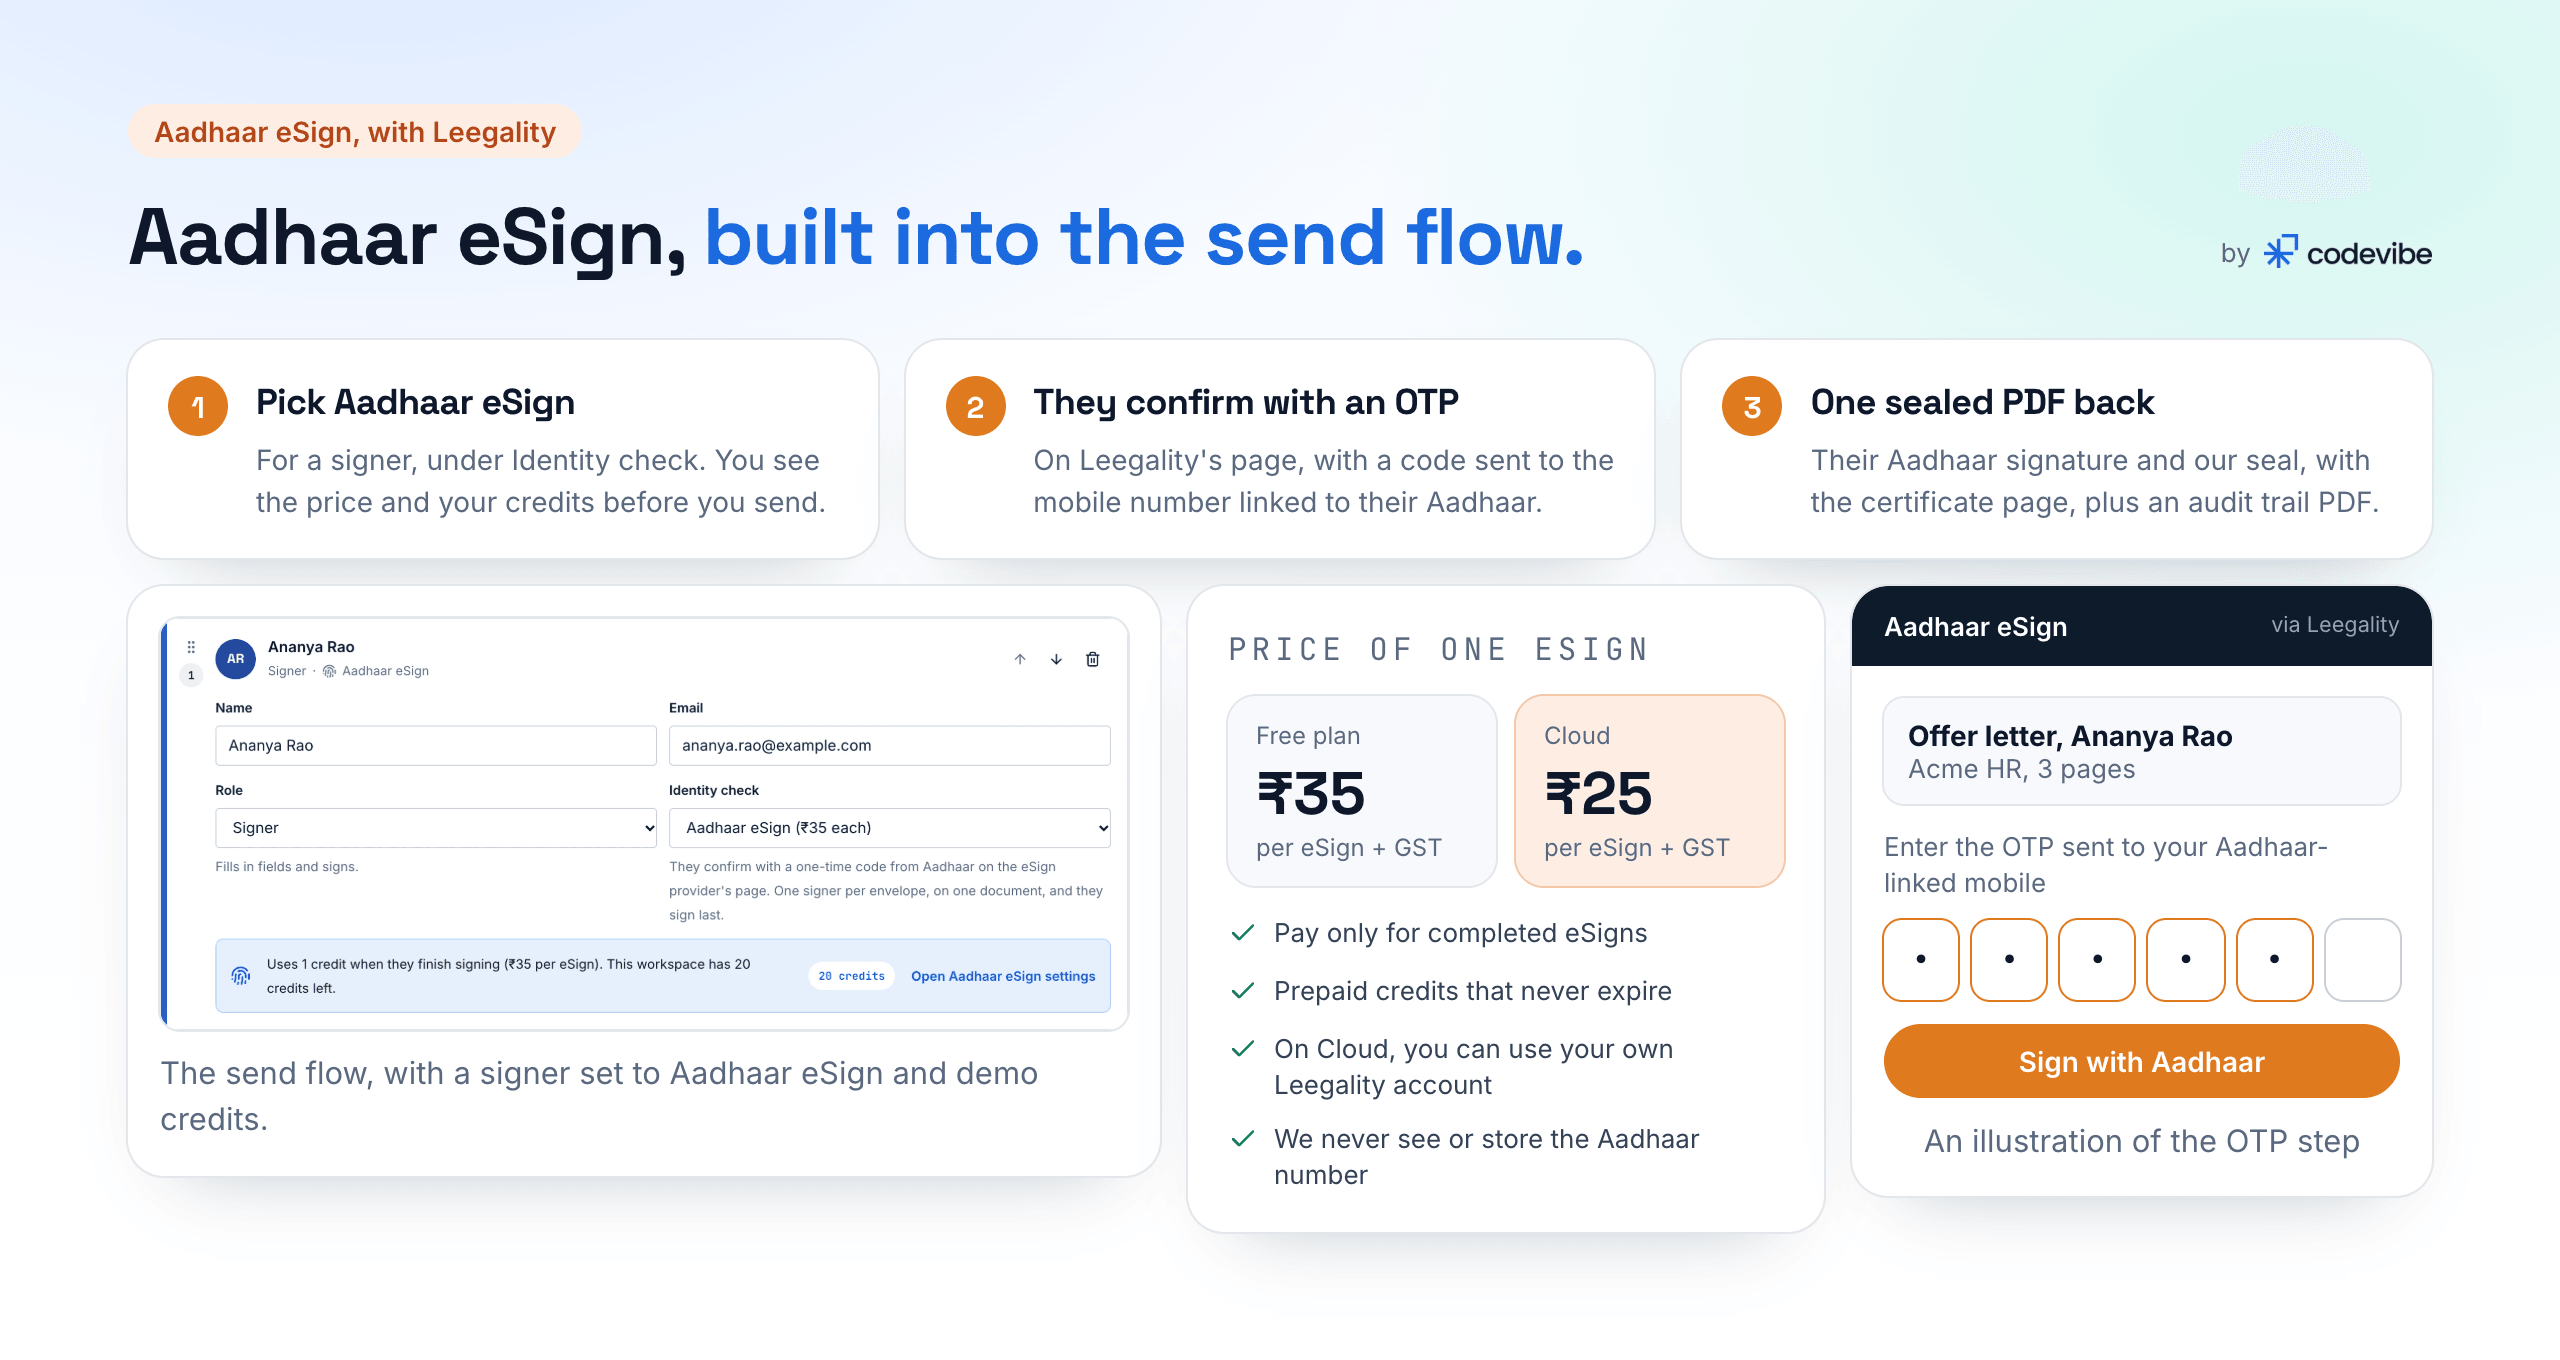
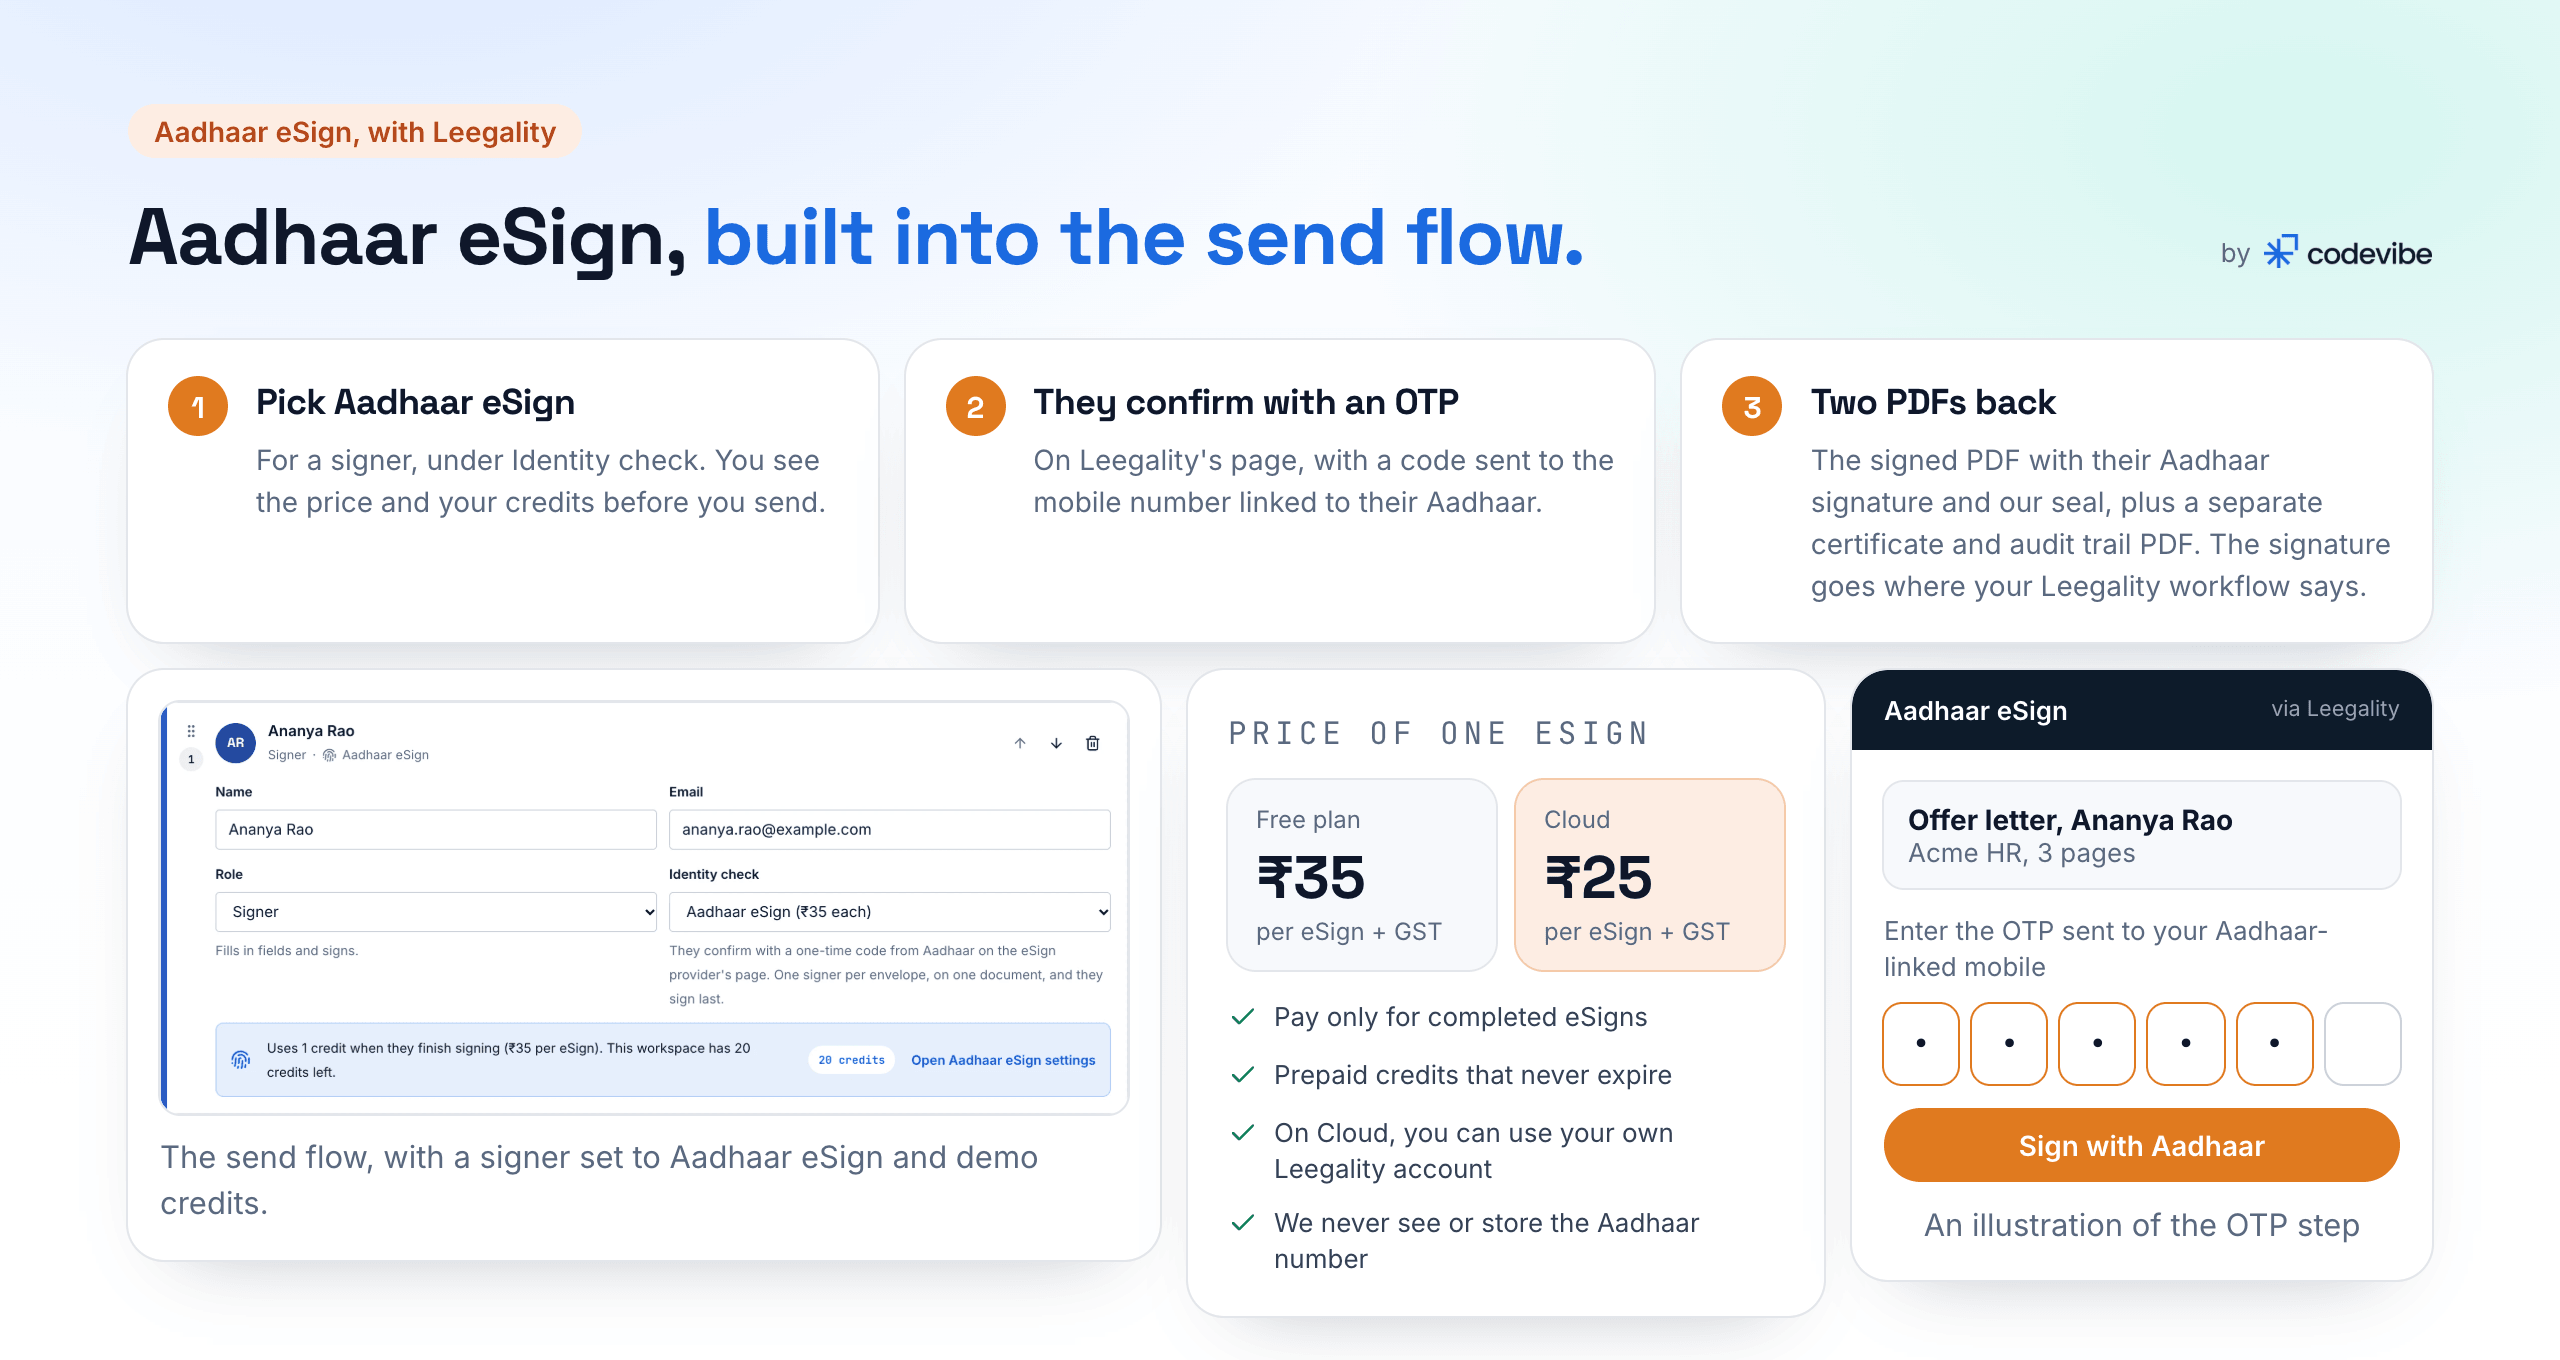
docs: show the two files of an Aadhaar eSign in the readme image

diff --git a/.github/assets/src/aadhaar.html b/.github/assets/src/aadhaar.html
@@ -225,10 +225,10 @@
         <div class="card step">
           <span class="n">3</span>
           <div>
-            <h3>One sealed PDF back</h3>
+            <h3>Two PDFs back</h3>
             <p>
-              Their Aadhaar signature and our seal, with the certificate page, plus an audit trail
-              PDF.
+              The signed PDF with their Aadhaar signature and our seal, plus a separate certificate
+              and audit trail PDF. The signature goes where your Leegality workflow says.
             </p>
           </div>
         </div>

diff --git a/README.md b/README.md
@@ -93,7 +93,7 @@ npm i codevibe-sign
 - 🗂 **Templates and bulk send** from a CSV, in the web app and through `/v1/templates` in the API.
 - 🏢 **Workspaces** with their own address (old links redirect), time zone for signed documents, brand, team and sign-in by password or email link.
 - 🔔 **Signed outbound webhooks** with retries, and an **HTTP API** with an OpenAPI description and a Postman collection.
-- 🇮🇳 **Aadhaar eSign** through a licensed provider (Leegality), built into the server and the web app: the signer confirms with an Aadhaar OTP, and the finished file carries their Aadhaar signature and the seal together. The adapter is also a library of its own (`@codevibe_technology/sign-aadhaar`).
+- 🇮🇳 **Aadhaar eSign** through a licensed provider (Leegality), built into the server and the web app: the signer confirms with an Aadhaar OTP, and the signed file carries their Aadhaar signature and the seal, with the certificate and audit trail as a separate PDF. The adapter is also a library of its own (`@codevibe_technology/sign-aadhaar`).
 - ⚛ **React components** for signing and field placement, unstyled and themed with CSS variables.
 
 ## How it works
@@ -141,13 +141,14 @@ What a PDF reader shows for the seal is explained in [How the seal works in PDF 
 ## Aadhaar eSign
 
 <p align="center">
-  <img src=".github/assets/aadhaar.png" alt="Aadhaar eSign through Leegality in three steps: pick Aadhaar eSign for a signer in the send flow, they confirm with an OTP on Leegality's page, and one sealed PDF comes back with the certificate page and an audit trail PDF. The send flow is shown with a signer set to Aadhaar eSign. One eSign costs Rs 35 on the Free plan and Rs 25 on Cloud, plus GST, paid only when it is completed. An illustration of the OTP step." width="100%">
+  <img src=".github/assets/aadhaar.png" alt="Aadhaar eSign through Leegality in three steps: pick Aadhaar eSign for a signer in the send flow, they confirm with an OTP on Leegality's page, and two PDFs come back: the signed PDF with their Aadhaar signature and the seal, and a separate certificate and audit trail PDF. The signature position is set in the Leegality workflow. The send flow is shown with a signer set to Aadhaar eSign. One eSign costs Rs 35 on the Free plan and Rs 25 on Cloud, plus GST, paid only when it is completed. An illustration of the OTP step." width="100%">
 </p>
 
 When a law asks for an electronic signature listed in the IT Act's Second Schedule, pick
 Aadhaar eSign for a signer under Identity check in the send flow. They confirm with a one-time
-code on Leegality's page; Codevibe Sign never sees or stores their Aadhaar number. You get back
-one sealed PDF with their Aadhaar signature, the seal and the certificate page, plus an audit
+code on Leegality's page; Codevibe Sign never sees or stores their Aadhaar number. Leegality
+places the signature where your Leegality workflow says, so you place no box. You get back the
+signed PDF with their Aadhaar signature and the seal, plus a separate certificate and audit
 trail PDF. One Aadhaar signer per envelope for now.
 
 An eSign costs Rs 35 on Free and Rs 25 on Cloud, plus GST, from prepaid credits, and only a
@@ -361,9 +362,9 @@ Codevibe Sign supports two kinds of signature. Under Indian law:
 - **Aadhaar eSign** (`@codevibe_technology/sign-aadhaar`). An electronic signature under IT Act
   s.3A, using a technique in the Second Schedule, issued through a licensed eSign Service
   Provider. Use it, or a DSC, where a law requires a document to be signed in that statutory
-  sense. A sender picks it for one signer, who acts last; the provider's signed file is kept
-  byte for byte, the seal is added after it, and the signing certificate is a separate sealed
-  PDF. See the [guide](https://sign.codevibe.in/docs/guides/aadhaar-leegality).
+  sense. A sender picks it for one signer, who acts last; Leegality signs the document as the
+  sender approved it, its signed file is kept byte for byte, the seal is added after it without
+  touching a page, and the certificate and audit trail are a separate sealed PDF. See the [guide](https://sign.codevibe.in/docs/guides/aadhaar-leegality).
 
 Some documents cannot be signed electronically at all. The IT Act's First Schedule, as amended
 by notification S.O. 4720(E) of 26 September 2022, excludes:

diff --git a/packages/aadhaar/README.md b/packages/aadhaar/README.md
@@ -31,7 +31,7 @@ server README). The web app does the same from its settings. You can also call t
 from your own backend, as shown below, and store the signed file yourself.
 
 <p align="center">
-  <img src="https://raw.githubusercontent.com/codevibe-technology/codevibe-sign/main/.github/assets/aadhaar.png" alt="Aadhaar eSign in the Codevibe Sign app, in three steps: pick Aadhaar eSign for a signer in the send flow, they confirm with an OTP on Leegality's page, and one sealed PDF comes back with the certificate page and an audit trail PDF. On the hosted app one eSign costs Rs 35 on the Free plan and Rs 25 on Cloud, plus GST, paid only when it is completed. An illustration of the OTP step." width="100%">
+  <img src="https://raw.githubusercontent.com/codevibe-technology/codevibe-sign/main/.github/assets/aadhaar.png" alt="Aadhaar eSign in the Codevibe Sign app, in three steps: pick Aadhaar eSign for a signer in the send flow, they confirm with an OTP on Leegality's page, and two PDFs come back: the signed PDF with their Aadhaar signature and the seal, and a separate certificate and audit trail PDF. The signature position is set in the Leegality workflow. On the hosted app one eSign costs Rs 35 on the Free plan and Rs 25 on Cloud, plus GST, paid only when it is completed. An illustration of the OTP step." width="100%">
 </p>
 
 ## What Aadhaar eSign is
